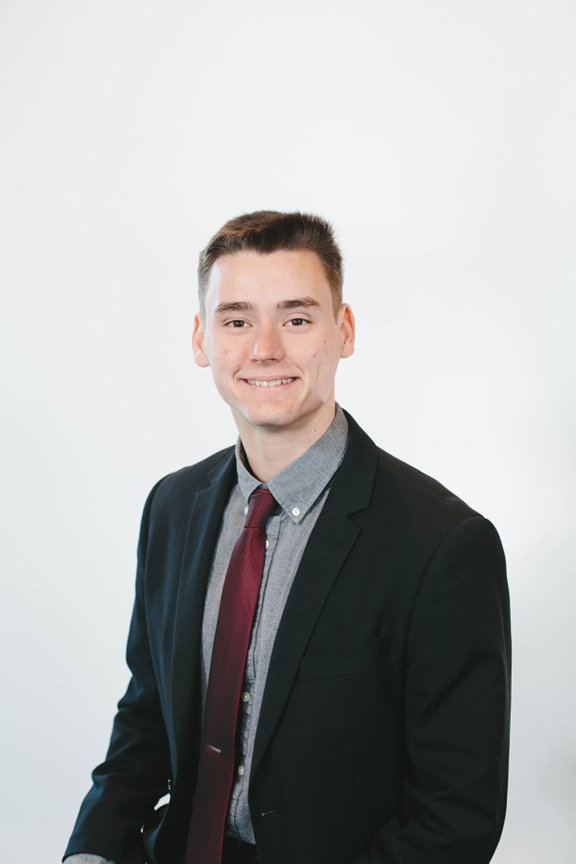
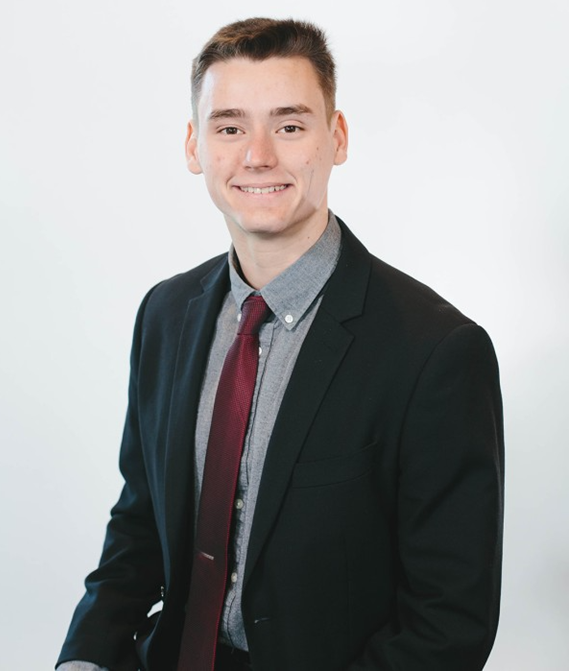
pages

Changed region(s): [[0.0896, 0.0, 0.8963, 1.0], [0.239, 0.8346, 0.3286, 0.9836]]

diff --git a/index.html b/index.html
@@ -23,8 +23,8 @@
             <div class = "col-lg-3"> </div>
         </div>
     <br>
-   
-    <img class= "imagec" src="headshot.png" width = "400" height="520"> <br>
+
+    <img class= "imagec" src="headshot.png" width = "427" height="504"> <br>
 
     <div class ="row">
         <div class="col-lg-3">
@@ -38,24 +38,28 @@
         </div>
     </div>
     <br>
+
+    <p>
+        The purpose of this web page is to provide more information about me beyond my resume<br>
+        If you want to contact me visit my <a href="https://www.linkedin.com/in/scott-tornquist/" >
+        linkedin.</a> <br>
+        If you want to check out my code visit my <a href="https://github.com/scottydoesntknow4tran" >
+            github.</a> <br>
+        Please check it out!
+    </p>
+    <br>
+
         <div class="dropdown">
-        <button class="dropbtn">Dropdown</button>
+        <button class="dropbtn">Sections</button>
         <div class="dropdown-content">
-          <a href="#">Link 1</a>
-          <a href="#">Link 2</a>
-          <a href="#">Link 3</a>
+            <a href="background.html">Background</a>
+          <a href="work.html">Work Expirence</a>
+          <a href="projects.html">Projects</a>
+          <a href="future.html">What's Next?</a>
         </div>
       </div>
 
-            <p>
-                The purpose of this web page is to learn more about me beyond my resume<br>
-                If you want to contact me, visit my <a href="https://www.linkedin.com/in/scott-tornquist/" >
-                linkedin</a> <br>
-                Please check it out!
-            </p>
-            <br>
-
-        <div class= "row">
+        <!-- <div class= "row">
             <div class = "col-md 2"> </div>
             <div class = "col-md 2"> 
                 <button type = "button" class ="btn btn-warning btn-outline-dark"> <a href="#intro"> At a Glance </a> </button>
@@ -85,7 +89,7 @@
             <button type = "button" class ="btn btn-warning btn-outline-dark"> <a href="#future"> What's next </a> </button>
             </div>
             <div class = "col-md 3"> </div>
-        </div> <br>
+        </div> <br> -->
 
 
     <h3>
@@ -100,80 +104,7 @@
     </p>
     <br>
 
-    <h3>
-        <a name = "background"> Background: </a> <br>
-    </h3>
-    <p>
-        In highschool sports were a big part of my life and helped make me into the perseverant worker that I am today. I was a 3 sport varsity athelete in the 4A KingCo confrence, the hardest confrence in WA. 
-        I did football, baseball, wrestling, and track. I earned 9 scholar athelete awards for keeping my GPA above 3.5 while completing a sport season. Sport in highschool has made me into a 
-        person who will do anything for the team and a feirce competitor. <br>
-        I acheive the rank of Eagle Scout over the course of 6 years. My eagle project was paint a United States and world map on the concrete at the entrance of my elementary school. Both maps were rough 30ft x 30ft, 
-        required stencils, and organization of a large team. Completing this project was one of my proudest moments in highschool and I will carry it withe me forever.
-    </p> 
-    <br>
-
-    <h3>
-        History with Computer Science:
-    </h3>
-    <p>
-        My first expirence programming was in 8th grade. It was a few basic lessons in scratch and I quite enjoyed it. This led me to take Intro to CS and Intro to game desing freshman year of HS.
-        I explored more scratch and learned python. Both of these classes were not challenging or intresting enough, so I did not take AP CS and did not look to learn more programming in HS.
-        I entered Gonzaga as an EE major (Electrical Engineering). I took my first college CS class sophmore year and switched to Computer Engineering (CE) with minors in CS and Applied Math.
-        Obvisouly I relized that a loved CS and wanted to do more and more of it with each class I took. CE is the cross between EE and CS, so it allows me to learn the fundamental of both,
-        and focus on the area I want to specialize in. I think you can guess which. I am glad to still have the EE classes and the Applied Math minor because they require a high level of math 
-        which I feel is imperative for any engineer and I really enjoy learning. The EE classes have given me an deeper understading of computers from the npn transistors that make up the logic gates, that make up registers, 
-        that make up caches and memory.
-
-    </p>
-    <br>
-
-    <h3><a name = "work"> Work: </a> <br> </h3>
-    
-    <p>
-        I have had 4 different jobs so far. In the past umpired baseball in highschool and worked at Target. Currently, I work at The Home Depot during breaks and TA while at school. 
-        Every job I have had has taught be something valuable. Such as workplace relationships, work habits, and how to work 40-60 hours a week. 
-    </p>
-    <br>
-
-
-    <h3> <a name = "projects"> Projects: </a> <br> </h3>
-    <p>
-        I have completed a few different projects for school and for fun, including this one!<br> <br>
-
-        This Project:<br> <br> 
-
-        I set up a Github repository and used Github pages to host a static website. I used the Github student developer pack to access NameCheap to get a free custom domain name.
-        This whole project was totally free and I learned HTML, CSS, and Bootstrap.
-        If you are intrested in making your own static personal website watch this 
-        <a href = "https://www.youtube.com/watch?v=CczyuEzmEO0"> video </a> <br>
-        <a href = "https://github.com/scottydoesntknow4tran/scottydoesntknow4tran.github.io"> Code for this website</a> <br><br>
-
-        Red-Black-Tree Data Structure Project: <br> <br>
-
-        A tree data structure that rebalances "automatically" and allows O(log(n)) add, find, and remove operations that is faster than the AVL tree by using recurrsion and rebalancing the tree during the downward traversal. <br>
-        <a href = "https://github.com/scottydoesntknow4tran/Red-Black-Trees"> RB Tree repository</a> <br> <br>
-
-        Hash Table Data Structure Project:<br> <br>
-
-        A data structure using a hash function to store data in a hash table that uses separate chaining to handle collisions and resizing the table to keep add, find, and remove operations to O(1). <br>
-        <a href = "https://github.com/scottydoesntknow4tran/Hash-Table.git"> Hash Table Repository</a> <br> <br>
-
-        For more of my coding project, check out my github:<br> 
-        <a href="https://github.com/scottydoesntknow4tran" >
-            github</a>
-            <br>
-    </p>
-    <br>
-
-    <h3> <a name = "future"> What's next: </a> <br> </h3>
-    <p>
-       My goals for the immediate future are to learn as much as I can as a Software Engineer and figure out what I want to specialize in.
-       I have done a decent ammount of back-end development in C++. I really enjoyed data structures, learning about how data a stored, retreived, and sorted efficently.
-       I am currently learning front end development on my own. I am using tools such as HTML, PHP, CSS, Bootstrap, JavaScript, Node.JS, ect. My next project is to create
-       a dynamic website using that can log times spent in a gym and use the data to prefrom statical analysis to track progress, give updates, reminders, and reccomendations.
-       I plan to start my career as a SWE, but with my knowledge of hardware systems I may be intrested in designing some products in the future. I am not truly set on any path
-       at this point. I want to learn, gain expirence, and find what I am passionate about within the realm of computing.
-    </p>
+  
 </div>
 
 

diff --git a/background.html b/background.html
@@ -1,0 +1,60 @@
+<!DOCTYPE html>
+
+<html>
+
+<head>
+    <title> Background</title>
+    <link rel="stylesheet" type="text/css" href ="style-sheet.css">
+    <link href="https://cdn.jsdelivr.net/npm/bootstrap@5.0.0-beta1/dist/css/bootstrap.min.css" rel="stylesheet" integrity="sha384-giJF6kkoqNQ00vy+HMDP7azOuL0xtbfIcaT9wjKHr8RbDVddVHyTfAAsrekwKmP1" crossorigin="anonymous">
+    <script src="https://cdn.jsdelivr.net/npm/bootstrap@5.0.0-beta1/dist/js/bootstrap.bundle.min.js" integrity="sha384-ygbV9kiqUc6oa4msXn9868pTtWMgiQaeYH7/t7LECLbyPA2x65Kgf80OJFdroafW" crossorigin="anonymous"></script>
+    <meta http-equiv="X-UA-Compatible" content="IE=edge">
+    <meta name="viewport" content="width=device-width, initial-scale = 1">
+</head>
+    
+<body>
+    <div class="container text-center">
+
+        <h3><a name = "Background"> Background: </a> <br> </h3>
+        
+        <div class="dropdown">
+            <button class="dropbtn">Dropdown</button>
+            <div class="dropdown-content">
+                <a href="index.html">Home</a>
+              <a href="projects.html">Projects</a>
+              <a href="future.html">What's Next?</a>
+        </div>
+
+        <h3>
+            <a name = "background"> Highschool: </a> <br>
+        </h3>
+        <p>
+            In highschool sports were a big part of my life and helped make me into the perseverant worker that I am today. I was a 3 sport varsity athelete in the 4A KingCo confrence, the hardest confrence in WA. 
+            I did football, baseball, wrestling, and track. I earned 9 scholar athelete awards for keeping my GPA above 3.5 while completing a sport season. Sport in highschool has made me into a 
+            person who will do anything for the team and a feirce competitor. <br>
+            I acheive the rank of Eagle Scout over the course of 6 years. My eagle project was paint a United States and world map on the concrete at the entrance of my elementary school. Both maps were rough 30ft x 30ft, 
+            required stencils, and organization of a large team. Completing this project was one of my proudest moments in highschool and I will carry it withe me forever.
+        </p> 
+        <br>
+    
+        <h3>
+            History with Computer Science:
+        </h3>
+        <p>
+            My first expirence programming was in 8th grade. It was a few basic lessons in scratch and I quite enjoyed it. This led me to take Intro to CS and Intro to game desing freshman year of HS.
+            I explored more scratch and learned python. Both of these classes were not challenging or intresting enough, so I did not take AP CS and did not look to learn more programming in HS.
+            I entered Gonzaga as an EE major (Electrical Engineering). I took my first college CS class sophmore year and switched to Computer Engineering (CE) with minors in CS and Applied Math.
+            Obvisouly I relized that a loved CS and wanted to do more and more of it with each class I took. CE is the cross between EE and CS, so it allows me to learn the fundamental of both,
+            and focus on the area I want to specialize in. I think you can guess which. I am glad to still have the EE classes and the Applied Math minor because they require a high level of math 
+            which I feel is imperative for any engineer and I really enjoy learning. The EE classes have given me an deeper understading of computers from the npn transistors that make up the logic gates, that make up registers, 
+            that make up caches and memory.
+    
+        </p>
+        <br>
+
+    </div>
+
+
+    <script src="https://ajax.googleapis.com/ajax/libs/jquery/2.1.3/jquery.min.js"></script>
+    <script src="https://maxcdn.bootstrapcdn.com/bootstrap/3.3.5/js/bootstrap.min.js"></script>
+
+</body>

diff --git a/projects.html b/projects.html
@@ -1,0 +1,61 @@
+<!DOCTYPE html>
+
+<html>
+
+<head>
+    <title> Projects </title>
+    <link rel="stylesheet" type="text/css" href ="style-sheet.css">
+    <link href="https://cdn.jsdelivr.net/npm/bootstrap@5.0.0-beta1/dist/css/bootstrap.min.css" rel="stylesheet" integrity="sha384-giJF6kkoqNQ00vy+HMDP7azOuL0xtbfIcaT9wjKHr8RbDVddVHyTfAAsrekwKmP1" crossorigin="anonymous">
+    <script src="https://cdn.jsdelivr.net/npm/bootstrap@5.0.0-beta1/dist/js/bootstrap.bundle.min.js" integrity="sha384-ygbV9kiqUc6oa4msXn9868pTtWMgiQaeYH7/t7LECLbyPA2x65Kgf80OJFdroafW" crossorigin="anonymous"></script>
+    <meta http-equiv="X-UA-Compatible" content="IE=edge">
+    <meta name="viewport" content="width=device-width, initial-scale = 1">
+</head>
+    
+<body>
+    <div class="container text-center">
+
+        
+        <h3> <a name = "projects"> Projects: </a> <br> </h3>
+
+        <div class="dropdown">
+            <button class="dropbtn">Dropdown</button>
+            <div class="dropdown-content">
+                <a href="index.html">Home</a>
+              <a href="work.html">Work Expirence</a>
+              <a href="future.html">What's Next?</a>
+        </div>
+
+        <p>
+            I have completed a few different projects for school and for fun, including this one!<br> <br>
+    
+            This Project:<br> <br> 
+    
+            I set up a Github repository and used Github pages to host a static website. I used the Github student developer pack to access NameCheap to get a free custom domain name.
+            This whole project was totally free and I learned HTML, CSS, and Bootstrap.
+            If you are intrested in making your own static personal website watch this 
+            <a href = "https://www.youtube.com/watch?v=CczyuEzmEO0"> video </a> <br>
+            <a href = "https://github.com/scottydoesntknow4tran/scottydoesntknow4tran.github.io"> Code for this website</a> <br><br>
+    
+            Red-Black-Tree Data Structure Project: <br> <br>
+    
+            A tree data structure that rebalances "automatically" and allows O(log(n)) add, find, and remove operations that is faster than the AVL tree by using recurrsion and rebalancing the tree during the downward traversal. <br>
+            <a href = "https://github.com/scottydoesntknow4tran/Red-Black-Trees"> RB Tree repository</a> <br> <br>
+    
+            Hash Table Data Structure Project:<br> <br>
+    
+            A data structure using a hash function to store data in a hash table that uses separate chaining to handle collisions and resizing the table to keep add, find, and remove operations to O(1). <br>
+            <a href = "https://github.com/scottydoesntknow4tran/Hash-Table.git"> Hash Table Repository</a> <br> <br>
+    
+            For more of my coding project, check out my github:<br> 
+            <a href="https://github.com/scottydoesntknow4tran" >
+                github</a>
+                <br>
+        </p>
+
+    </div>
+
+
+    <script src="https://ajax.googleapis.com/ajax/libs/jquery/2.1.3/jquery.min.js"></script>
+    <script src="https://maxcdn.bootstrapcdn.com/bootstrap/3.3.5/js/bootstrap.min.js"></script>
+
+</body>

diff --git a/work.html b/work.html
@@ -1,0 +1,40 @@
+<!DOCTYPE html>
+
+<html>
+
+<head>
+    <title> Work Expirence </title>
+    <link rel="stylesheet" type="text/css" href ="style-sheet.css">
+    <link href="https://cdn.jsdelivr.net/npm/bootstrap@5.0.0-beta1/dist/css/bootstrap.min.css" rel="stylesheet" integrity="sha384-giJF6kkoqNQ00vy+HMDP7azOuL0xtbfIcaT9wjKHr8RbDVddVHyTfAAsrekwKmP1" crossorigin="anonymous">
+    <script src="https://cdn.jsdelivr.net/npm/bootstrap@5.0.0-beta1/dist/js/bootstrap.bundle.min.js" integrity="sha384-ygbV9kiqUc6oa4msXn9868pTtWMgiQaeYH7/t7LECLbyPA2x65Kgf80OJFdroafW" crossorigin="anonymous"></script>
+    <meta http-equiv="X-UA-Compatible" content="IE=edge">
+    <meta name="viewport" content="width=device-width, initial-scale = 1">
+</head>
+    
+<body>
+    <div class="container text-center">
+
+        <h3><a name = "work"> Work Expirence: </a> <br> </h3>
+        
+        <div class="dropdown">
+            <button class="dropbtn">Dropdown</button>
+            <div class="dropdown-content">
+                <a href="index.html">Home</a>
+              <a href="projects.html">Projects</a>
+              <a href="future.html">What's Next?</a>
+        </div>
+
+        <img class= "imagec" src="hd_pic.jpg" width = 586 height="444"> <br>
+
+        <p>
+            I have had 4 different jobs so far. In the past umpired baseball in highschool and worked at Target. Currently, I work at The Home Depot during breaks and TA while at school. 
+            Every job I have had has taught be something valuable. Such as workplace relationships, work habits, and how to work 40-60 hours a week. 
+        </p>
+
+    </div>
+
+
+    <script src="https://ajax.googleapis.com/ajax/libs/jquery/2.1.3/jquery.min.js"></script>
+    <script src="https://maxcdn.bootstrapcdn.com/bootstrap/3.3.5/js/bootstrap.min.js"></script>
+
+</body>

diff --git a/future.html b/future.html
@@ -3,7 +3,7 @@
 <html>
 
 <head>
-    <title> Scott's Page </title>
+    <title> What's Next? </title>
     <link rel="stylesheet" type="text/css" href ="style-sheet.css">
     <link href="https://cdn.jsdelivr.net/npm/bootstrap@5.0.0-beta1/dist/css/bootstrap.min.css" rel="stylesheet" integrity="sha384-giJF6kkoqNQ00vy+HMDP7azOuL0xtbfIcaT9wjKHr8RbDVddVHyTfAAsrekwKmP1" crossorigin="anonymous">
     <script src="https://cdn.jsdelivr.net/npm/bootstrap@5.0.0-beta1/dist/js/bootstrap.bundle.min.js" integrity="sha384-ygbV9kiqUc6oa4msXn9868pTtWMgiQaeYH7/t7LECLbyPA2x65Kgf80OJFdroafW" crossorigin="anonymous"></script>
@@ -16,6 +16,15 @@
 
         
     <h3> <a name = "future"> What's next: </a> <br> </h3>
+
+    <div class="dropdown">
+        <button class="dropbtn">Dropdown</button>
+        <div class="dropdown-content">
+            <a href="index.html">Home</a>
+          <a href="work.html">Work Expirence</a>
+          <a href="projects.html">Projects</a>
+    </div>
+
     <p>
        My goals for the immediate future are to learn as much as I can as a Software Engineer and figure out what I want to specialize in.
        I have done a decent ammount of back-end development in C++. I really enjoyed data structures, learning about how data a stored, retreived, and sorted efficently.
